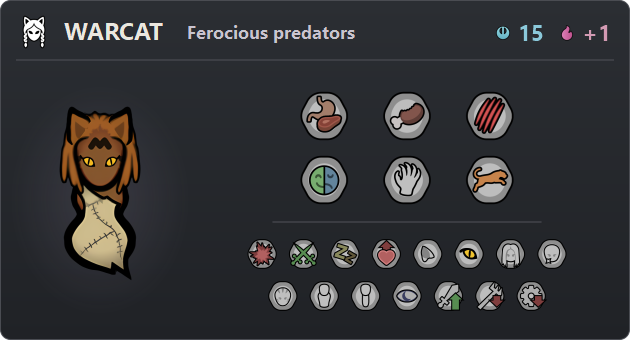
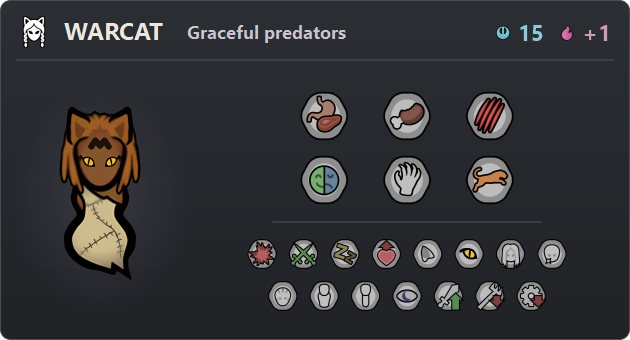
Change warcat short description

Changed region(s): [[0.3016, 0.0588, 0.573, 0.1471]]

diff --git a/XylXenos/CONTENT.md b/XylXenos/CONTENT.md
@@ -10,7 +10,7 @@ Major xenotypes are the main content of XylXenos. They have dedicated factions a
 * Nixie: Psychic fish people. They're unmatched in water, but unless they periodically soak to keep their skin moist they'll become very unhappy.
 * Titan: Engineered rock giants. They're super tough and each is specialized in one random skill, but they move slowly and have difficulty learning other skills. They can't use most normal drugs and require special drugs designed for lithoids.
 * Trog: Adaptable mutants. They can live almost anywhere and wild insects won't attack them, but they're slow learners and sensitive to sunlight.
-* Warcat: Ferocious predators. They're powerful melee fighters with a rage ability that lets them move and attack incredibly quickly, but they need to eat raw meat regularly to survive.
+* Warcat: Graceful predators. They're powerful melee fighters with a rage ability that lets them move and attack incredibly quickly, but they need to eat raw meat regularly to survive.
 * Zeegee: High-tech spacers. They learn fast and are excellent shots with long-ranged weapons, but they do poorly on planetary surfaces.
 
 ### Minor xenotypes

diff --git a/XylXenos/Data/About/README.md b/XylXenos/Data/About/README.md
@@ -48,7 +48,7 @@ Optional DLC unlocks additional content:
 
 ### Warcat
 
-![Warcat — Ferocious predators](../Docs/Images/XenotypeCards/warcat-card.png)
+![Warcat — Graceful predators](../Docs/Images/XenotypeCards/warcat-card.png)
 
 ### Zeegee
 
